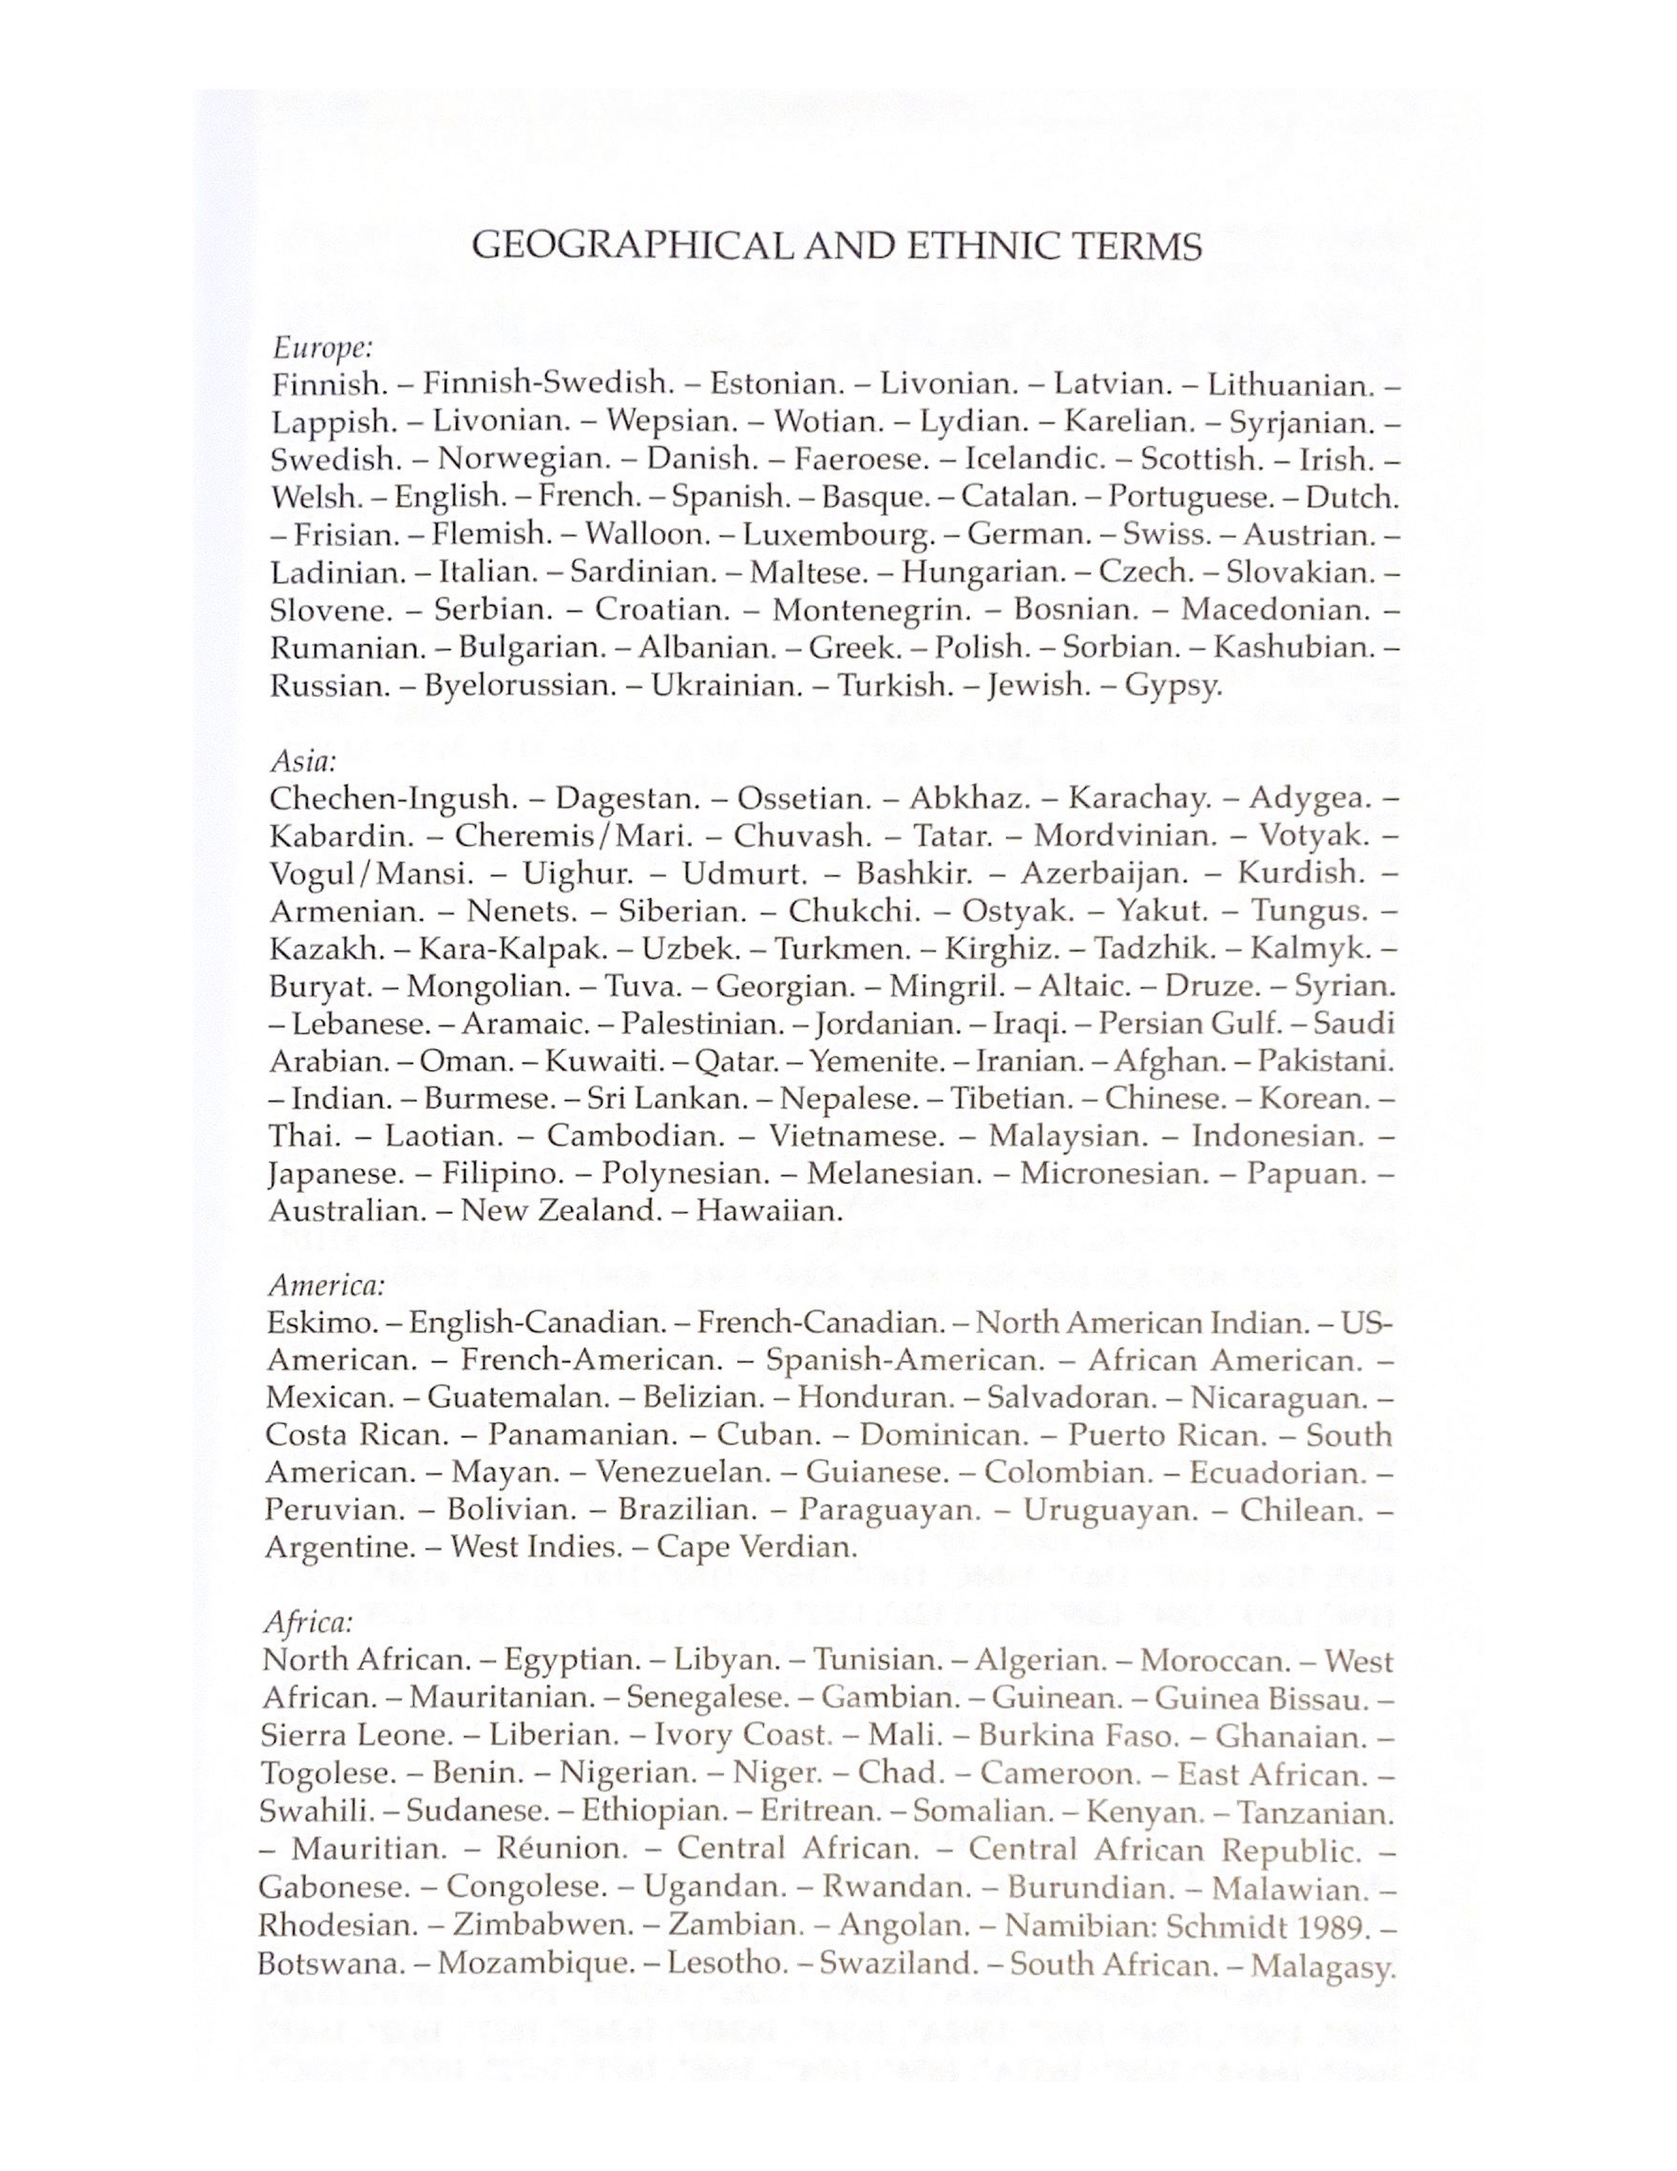
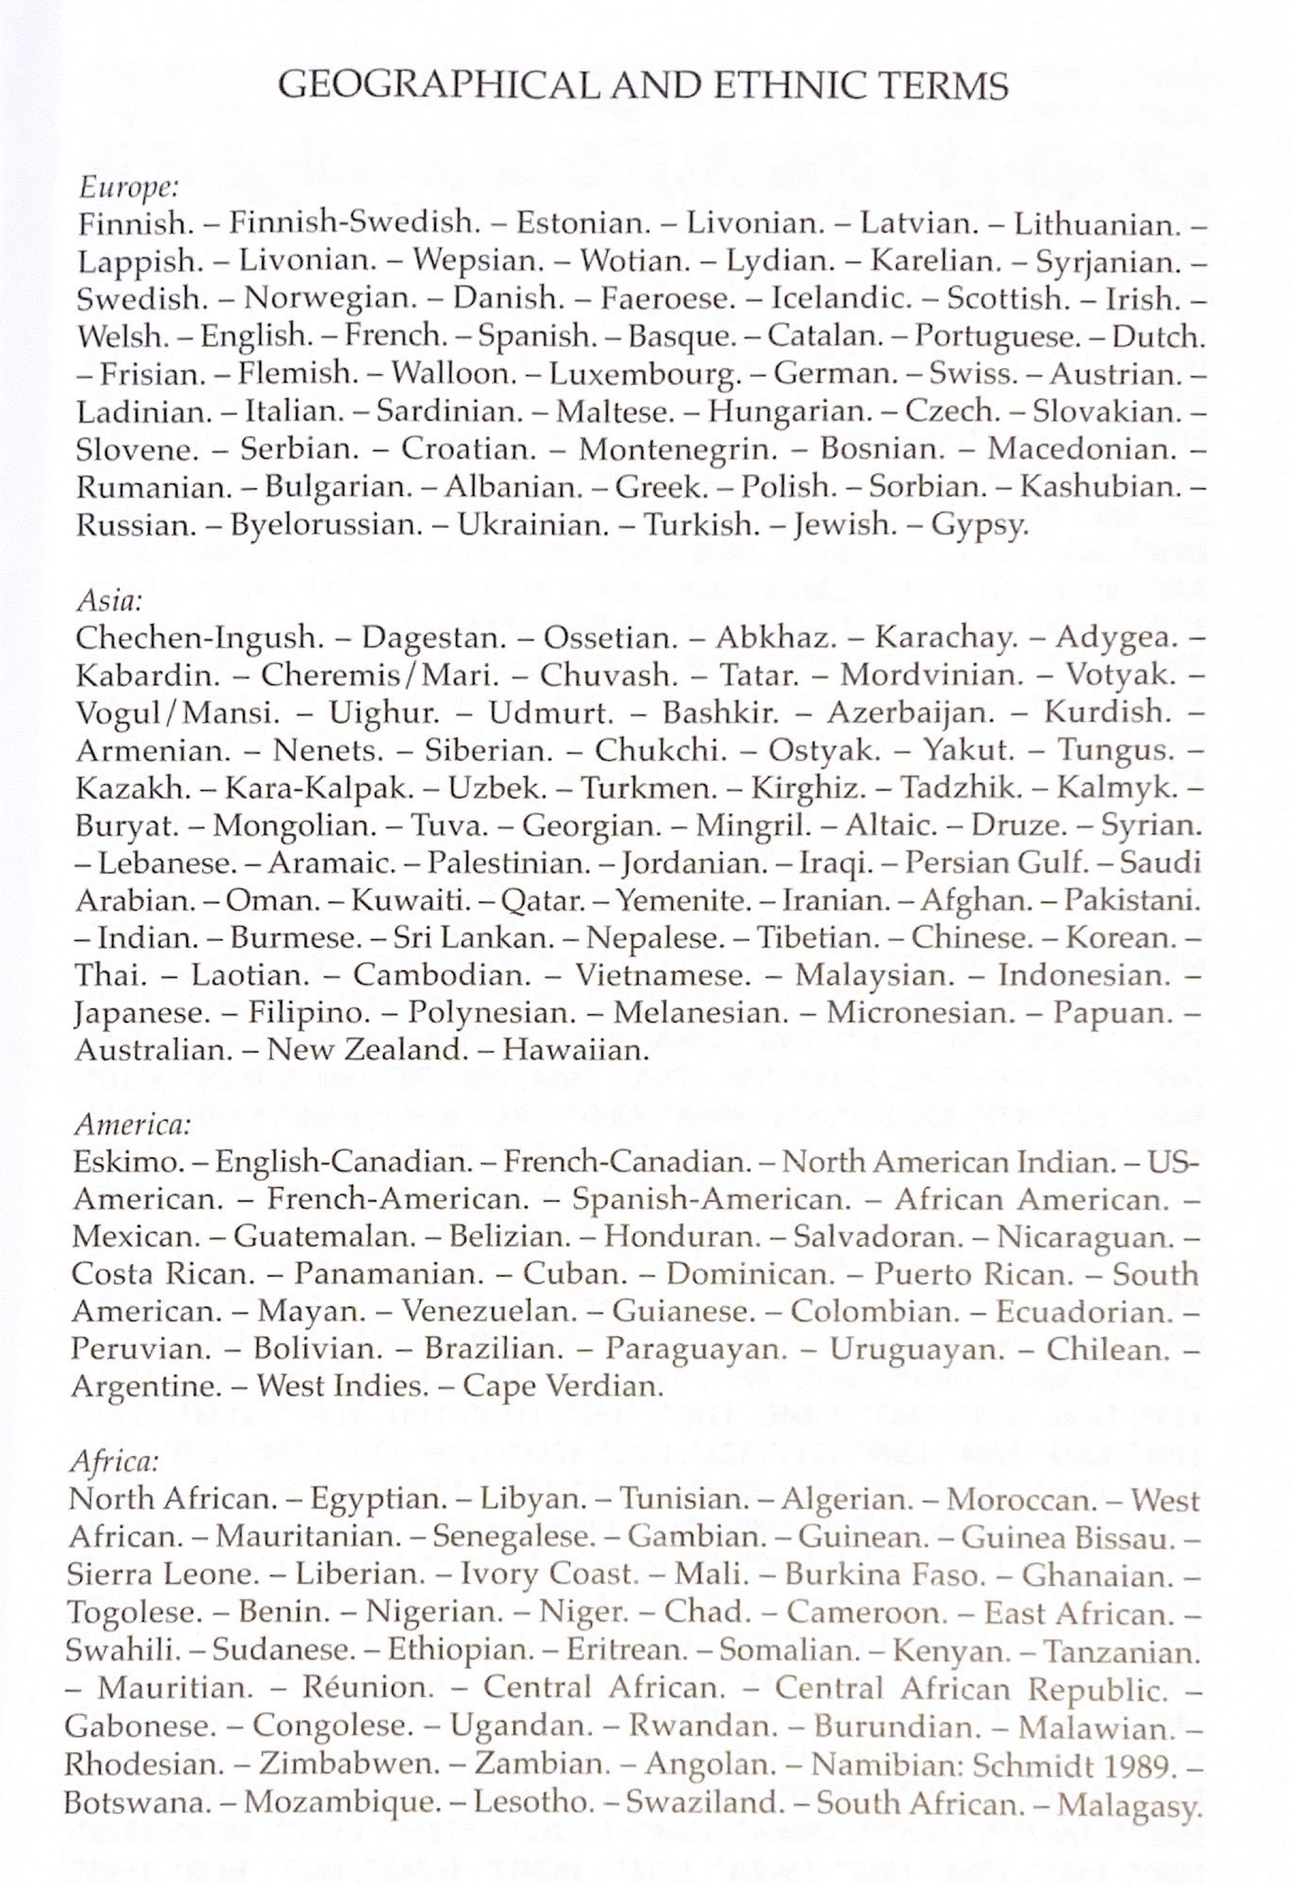
update classification - analyze

diff --git a/classification.html b/classification.html
@@ -16,11 +16,10 @@
             <a href="mlis.html"><p>< back</p></a>
             <div class="row">
                 <h4 style="text-align: center;">Aarne–Thompson–Uther</h4>
-                <p style="text-align: center;">This is only accessible via desktop at the moment. Please don't read on your phone.</p>
             </div>
-            <div class="row justify-content-between">
-                <div class="col-lg-7">
-                    <br>
+            <div class="row justify-content-between" style="padding-top: 3%">
+                <div class="col-lg-8" style="padding-right:5%">
+                    <p>Click on an image to view it in full screen.</p>
                     <p>The Aarne–Thompson–Uther (or ATU) classification of folk tales began in 1910, when Antti Aarne created the system to organize Scandinavian 
                         archival collections (Zipes, 2015). Aarne’s classification was translated and enlarged twice, in 1928 and 1961, by American folklorist 
                         Stith Thompson so that scholars could track down variants of the same tale types (Haring, 2006). At the twelfth Congress of the 
@@ -37,58 +36,55 @@
                         example, is classified under Tales of Magic > Supernatural Helpers with the number 510. The two variants of the Cinderella tale, Persecuted 
                         Heroine and Unnatural Love, are further classified as 510A and 510B, respectively (Uther & Folklore Fellows, 2004). In addition to information 
                         about a tale type’s principle traits, age, and place of origin, each ATU entry also lists evidence of geographic spread (Haring, 2006). For an 
-                        example, see the scan of <i>The Types of International Folktales</i> on the right (Uther & Folklore Fellows, 2004).
+                        example, see figure 2 (Uther & Folklore Fellows, 2004).
                     </p>
                     <p>
                         Unfortunately, <i>The Types of International Folktales</i> has not been digitized, although the Multilingual Folk Tale Database (MFTD) contains 
-                        over 10,000 stories classified according to ATU, with examples and origin listed under tale type to indicate the geographic spread (see below). 
-                        In comparing the image on the right to the screenshot of MFTD below, you can see that significant amounts of information are missing from MFTD, as the purpose is to 
+                        over 10,000 stories classified according to ATU, with examples and origin listed under tale type to indicate the geographic spread (see figure 1). 
+                        In comparing figure 1 to figure 2, you can see that significant amounts of information are missing from MFTD, as the purpose is to 
                         provide access to tales rather than systematically organize them. Moreover, the MFTD was a community-maintained database up until the site was hacked, 
                         so it is not a scholarly source like <i>The Types of International Folktales</i>, although it may be perceived as such. 
                     </p>
                     <p>
-                        In terms of some obvious issues, a few of the geographic and ethnic terms (see page 5) are outdated and harmful. This includes Gypsy and Eskimo. 
+                        In terms of some obvious issues, a few of the geographic and ethnic terms (see figure 3) are outdated and harmful. This includes Gypsy and Eskimo. 
                         Moreover, Aarne originally created the system for Scandinavian tales, which is a potentially limiting structure for tales that originate from other 
                         areas. In the introductory chapter of <i>The Types of International Folktales</i>, Uther addresses the insufficient and/or uneven documentation of geographic 
                         areas and small ethnic groups (Uther & Folklore Fellows, 2004, p. 7), but Dr. Jorgensen says that ATU is still “not as multicultural as it could be” 
                         (Giaimo, 2017). Some critics also acknowledge that the classification of tale types—while aiding in cross-cultural comparison—“promote[s] the 
                         universalizing and leveling of texts across cultures,” stripping tales of their contextual complexity (Haase, 2010).
                     </p>
+                    <a href="/photos/MFTD.png" target="_blank"><img src="/photos/MFTD.png" style="width:100%; padding-top: 3%;"></a>
+                    <p style="padding-top: 2%;">Fig. 1: screenshot of the Multilingual Folk Tale Database (“1000: Bargain not to become angry,” n.d.)</p>
                 </div>
-                <div class="col-lg-5">
-                    <img src="/photos/TALES OF THE STUPID OGRE.jpg" style="width:100%">
-                    <p style="padding-left:10%; padding-right:10%">Scan One:<i>The Types of International Folktales</i> (Uther & Folklore Fellows, 2004), Volume 2, Page 7</p>
-                </div>
-            </div>
-            <br>
-            <br>
-            <div class="row justify-content-between">
-                <div class="col-lg-7">
-                    <img src="/photos/MFTD.png" style="width:100%">
-                    <p style="padding-top: 2%;">Screenshot of the Multilingual Folk Tale Database (“1000: Bargain not to become angry,” n.d.)</p>
-                    <br>
-                    <br>
-                    <p style="text-align: center;"><b>References</b></p>
-                    <p>Crawford, R. (n.d.). Research Guides: Library Research Guide for Folklore and Mythology: Tale-Type and Motif </p>
-                    <p style="padding-left:5%">Indices. Retrieved October 22, 2023, from https://guides.library.harvard.edu/folk_and_myth/indices</p>
-                    <p>Giaimo, C. (2017, June 14). The ATU Fable Index: Like the Dewey Decimal System, But With More Ogres. Atlas</p>
-                    <p style="padding-left:5%">Obscura. http://www.atlasobscura.com/articles/aarne-thompson-uther-tale-type-index-fables-fairy-tales</p>
-                    <p>Haase, D. (2010). Decolonizing Fairy-Tale Studies. Marvels & Tales, 24(1), 17–38.</p>
-                    <p>Haring, L. (2006). The types of international folktales: a classification and bibliography, based on the</p>
-                    <p style="padding-left:5%">system of Antti Aarne and Stith Thompson (review). Marvels & Tales, 20(1), 103–105. https://doi.org/10.1353/mat.2006.0012</p>
-                    <p>Jason, Heda. (2006). Besprechungen. Fabula, 47(1–2), 172–188. https://doi.org/10.1515/FABL.2006.016</p>
-                    <p>1000: Bargain not to become angry. (n.d.). Multilingual Folk Tale Database. Retrieved October 25, 2023,</p>
-                    <p style="padding-left:5%">from http://www.mftd.org/index.php?action=atu&src=atu&id=1000 </p>
-                    <p>Uther, H., & Folklore Fellows. (2004). The types of international folktales: a classification</p>
-                    <p style="padding-left:5%">and bibliography, based on the system of Antti Aarne and Stith Thompson. Suomalainen Tiedeakatemia, Academia Scientiarum Fennica. </p>
-                    <p>Zipes, J. (2015). Aarne–Thompson index. In The Oxford Companion to Fairy Tales. Oxford University Press.</p>
-                    <p style="padding-left:5%">https://doi.org/10.1093/acref/9780199689828.001.0001</p>
-                </div>
-                <div class="col-lg-5">
-                    <img src="/photos/GEOGRAPHICAL AND ETHNIC TERMS.jpg" style="width:100%">
-                    <p style="padding-left:10%; padding-right:10%">Scan Two:<i>The Types of International Folktales</i> (Uther & Folklore Fellows, 2004), Volume 3, Page 7</p>
+                <div class="col-lg-4" id="classificationImages">
+                    <a href="/photos/TALES OF THE STUPID OGRE.jpg" target="_blank"><img src="/photos/TALES OF THE STUPID OGRE.jpg" style="width:100%"></a>
+                    <p>Fig. 2: <i>The Types of International Folktales</i> (Uther & Folklore Fellows, 2004), Volume 2, p. 7</p>
+                    <a href="/photos/GEOGRAPHICAL AND ETHNIC TERMS.jpg" target="_blank"><img src="/photos/GEOGRAPHICAL AND ETHNIC TERMS.jpg" style="width:100%"></a>
+                    <p style="padding-top: 2%;">Fig. 3: <i>The Types of International Folktales</i> (Uther & Folklore Fellows, 2004), Volume 3, p. 7</p>
                 </div>
             </div>
+            <div class="row justify-content-between" style="padding-top: 3%" id="smallClassification">
+                <div class="col-sm-6">
+                    <a href="/photos/TALES OF THE STUPID OGRE.jpg" target="_blank"><img src="/photos/TALES OF THE STUPID OGRE.jpg" style="width:90%"></a>
+                    <p>Fig. 2: <i>the Types of International Folktales</i> (Uther & Folklore Fellows, 2004), Volume 2, p. 7</p>
+                </div>
+                <div class="col-sm-6">
+                    <a href="/photos/GEOGRAPHICAL AND ETHNIC TERMS.jpg" target="_blank"><img src="/photos/GEOGRAPHICAL AND ETHNIC TERMS.jpg" style="width:100%"></a>
+                    <p style="padding-top: 2%;">Fig. 3: <i>The Types of International Folktales</i> (Uther & Folklore Fellows, 2004), Volume 3, p. 7</p>
+                </div>
+            </div>
+            <div class="row">
+                <p style="text-align: center;"><b>References</b></p>
+                    <p>Crawford, R. (n.d.). <i>Research Guides: Library Research Guide for Folklore and Mythology: Tale-Type and Motif Indices.</i> Retrieved October 22, 2023, from https://guides.library.harvard.edu/folk_and_myth/indices</p>
+                    <p>Giaimo, C. (2017, June 14). <i>The ATU Fable Index: Like the Dewey Decimal System, But With More Ogres.</i> Atlas Obscura. http://www.atlasobscura.com/articles/aarne-thompson-uther-tale-type-index-fables-fairy-tales</p>
+                    <p>Haase, D. (2010). Decolonizing Fairy-Tale Studies. <i>Marvels & Tales</i>, 24(1), 17–38.</p>
+                    <p>Haring, L. (2006). The types of international folktales: a classification and bibliography, based on the system of Antti Aarne and Stith Thompson (review). <i>Marvels & Tales</i>, 20(1), 103–105. https://doi.org/10.1353/mat.2006.0012</p>
+                    <p>Jason, Heda. (2006). Besprechungen. <i>Fabula</i>, 47(1–2), 172–188. https://doi.org/10.1515/FABL.2006.016</p>
+                    <p><i>1000: Bargain not to become angry.</i> (n.d.). Multilingual Folk Tale Database. Retrieved October 25, 2023, from http://www.mftd.org/index.php?action=atu&src=atu&id=1000 </p>
+                    <p>Uther, H., & Folklore Fellows. (2004). <i>The types of international folktales: a classification and bibliography, based on the system of Antti Aarne and Stith Thompson.</i> Suomalainen Tiedeakatemia, Academia Scientiarum Fennica. </p>
+                    <p>Zipes, J. (2015). Aarne–Thompson index. In <i>The Oxford Companion to Fairy Tales.</i> Oxford University Press. https://doi.org/10.1093/acref/9780199689828.001.0001</p>
+            </div>
+            
         </div>
         <br>
         <br>

diff --git a/stylesheet.css b/stylesheet.css
@@ -94,6 +94,9 @@ img:hover {
   #small-footer {
     display: none;
   }
+  #smallClassification{
+    display: none;
+  }
   #launch-ig {
     display: none;
   }
@@ -103,6 +106,9 @@ img:hover {
     display: none;
   }
   #launch-ig {
+    display: none;
+  }
+  #smallClassification{
     display: none;
   }
 }
@@ -118,6 +124,12 @@ img:hover {
   }
   #launch-ig {
     display: none;
+  }
+  #classificationImages {
+    display:none;
+  }
+  #smallClassification{
+    display:flex ;
   }
 }
 @media (max-width: 768px) {
@@ -135,6 +147,9 @@ img:hover {
   }
   #year {
     display: none;
+  }
+  #smallClassification{
+    display:flex ;
   }
 }
 @media (max-width: 576px) {
@@ -155,6 +170,9 @@ img:hover {
   }
   #year {
     display: none;
+  }
+  #smallClassification{
+    display:flex ;
   }
 }
 .modal-title {
